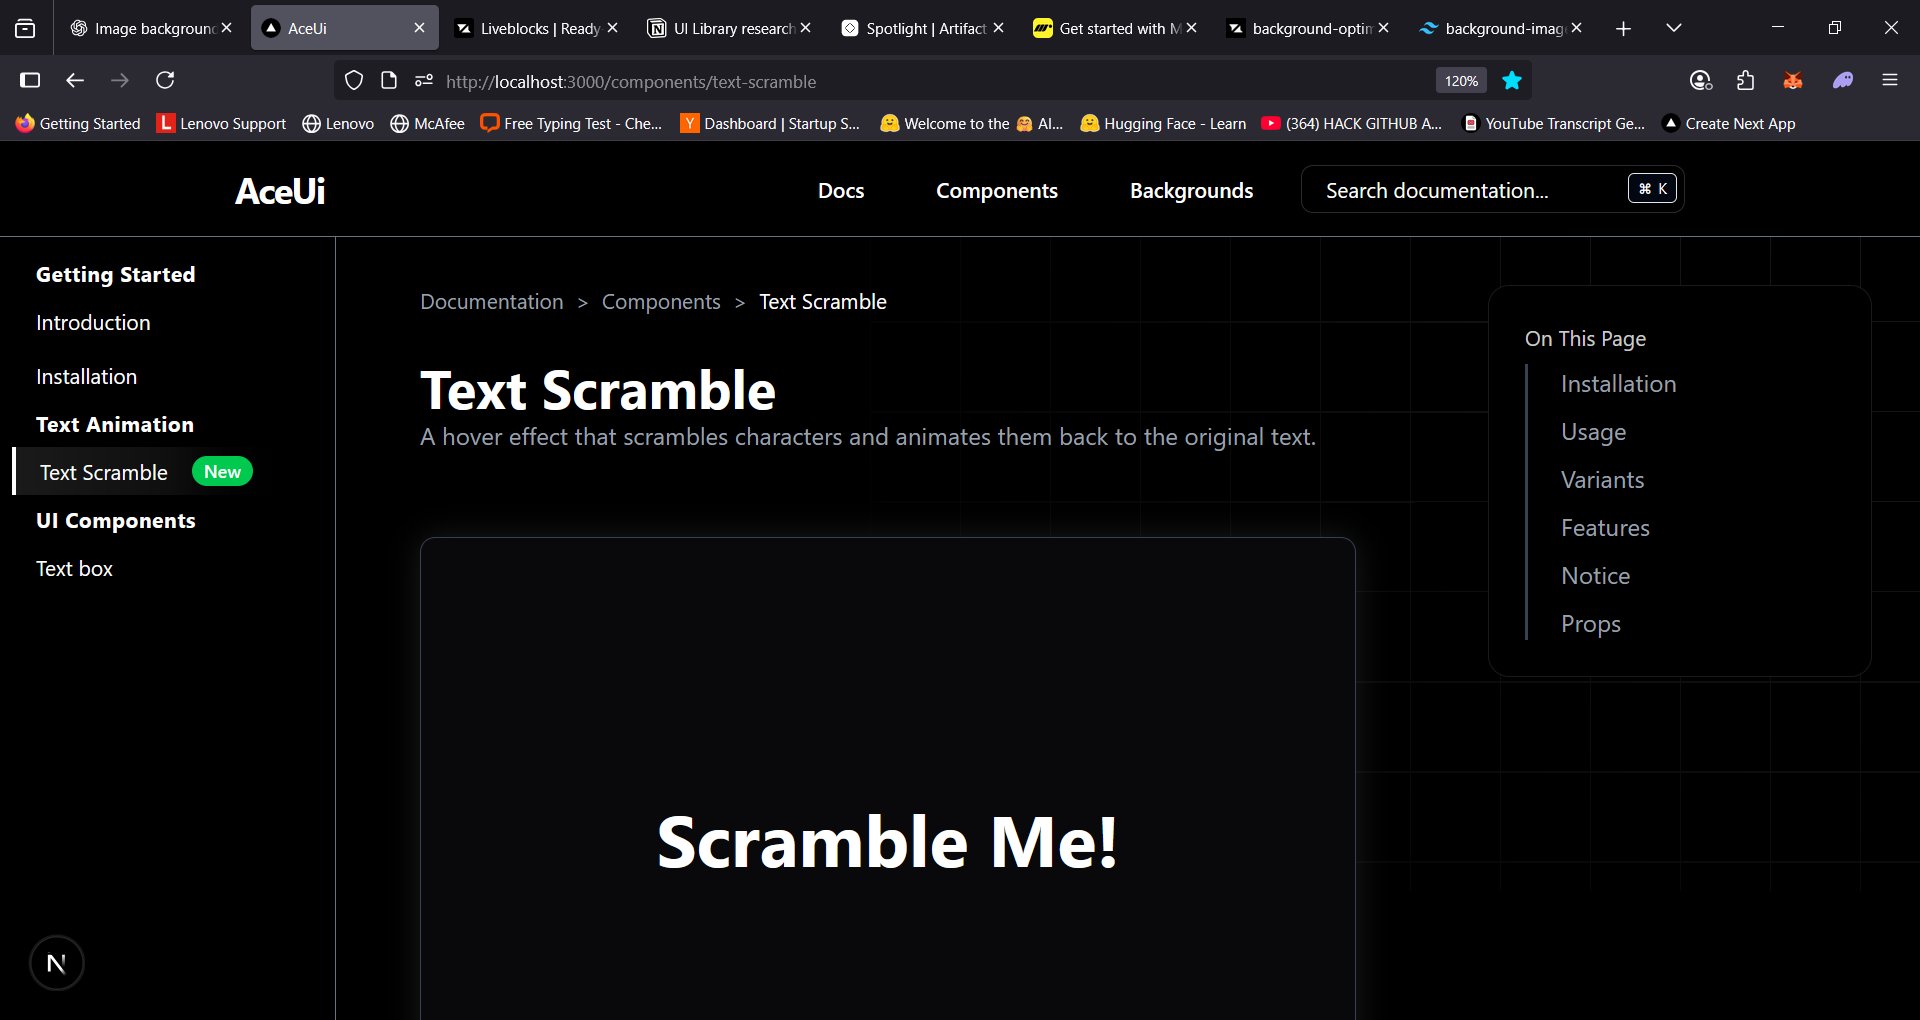
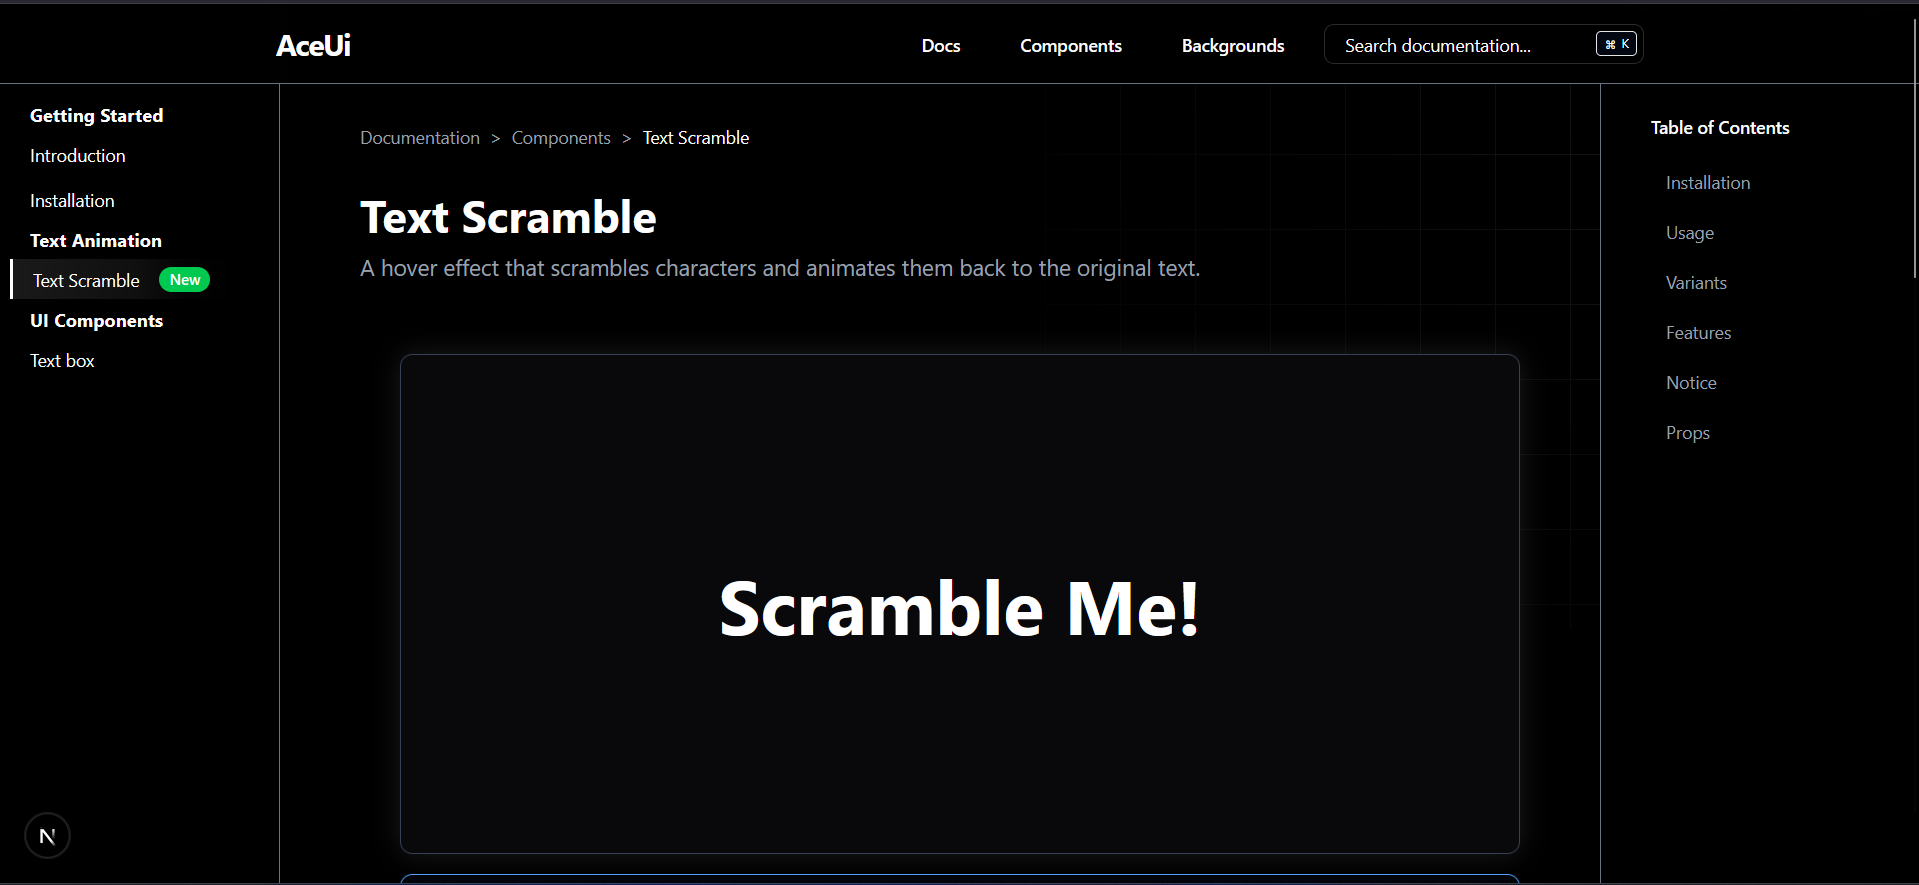
🥳

diff --git a/components/mobile-nav.tsx b/components/mobile-nav.tsx
@@ -1,65 +1,104 @@
-"use client"
+"use client";
 import React, { useState } from 'react';
-import { LogOut, CircleUser, Bell, Home, UsersRound, SquarePen, Menu, X } from 'lucide-react';
+import {  Menu } from 'lucide-react';
 import Link from 'next/link';
-import { Button } from './ui/button';
+import { sidebar } from "@/lib/items"
+import {
+    Sheet,
+    SheetContent,
+    SheetDescription,
+    SheetHeader,
+    SheetTitle,
+    SheetTrigger,
+} from "@/components/ui/sheet";
+import {
+    Sidebar,
+    SidebarContent,
+    SidebarGroup,
+    SidebarGroupContent,
+    SidebarGroupLabel,
+    SidebarMenu,
+    SidebarMenuButton,
+    SidebarMenuItem,
+} from "@/components/ui/sidebar"
+import { usePathname } from "next/navigation"
+
 function MobileNavbar() {
-    
+    const path = usePathname()
+    // console.log("Here is  the path : ", path)
     const [isOpen, setIsOpen] = useState(false);
 
     return (
-        <div className='md:hidden fixed top-0 left-0 right-0 z-50 bg-black border-b'>
-            <div className='flex justify-between items-center p-4'>
-                <div className='flex items-center'>
-                    <Link href={"/"} className='text-xl lg:text-2xl font-mono tracking-tighter text-primary font-bold'>
-                        HiveMind
-                    </Link>
-                </div>
-                <button onClick={() => setIsOpen(!isOpen)} className="p-2 hover:bg-gray-100 rounded-full">
-                    <Menu className='w-6 h-6' />
-                </button>
-            </div>
-            {isOpen && (
-                <div className='fixed inset-0 bg-white z-50'>
-                    <div className='flex flex-col h-full'>
-                        <div className='flex justify-between items-center p-4 border-b'>
-                            <div className='flex items-center'>
-                                <Link href={"/"} className='text-xl lg:text-2xl font-mono tracking-tighter text-primary font-bold'>
-                                    HiveMind
-                                </Link>
-                            </div>
-                            <button onClick={() => setIsOpen(false)} className="p-2 hover:bg-gray-100 rounded-full">
-                                <X className='w-6 h-6' />
-                            </button>
-                        </div>
-
-                        <div className='flex-1 overflow-y-auto p-4'>
-                            <nav className='flex flex-col space-y-2'>
-                                <Link href="/" onClick={() => setIsOpen(false)}>
-                                    <Button variant="ghost" className='w-full justify-start gap-2'>
-                                        <Home size={20} /> Home
-                                    </Button>
-                                </Link>
-                                <Link href="/spaces" onClick={() => setIsOpen(false)}>
-                                    <Button variant="ghost" className='w-full justify-start gap-2'>
-                                        <UsersRound size={20} /> Spaces
-                                    </Button>
-                                </Link>
-                                <Link href="/new-story" onClick={() => setIsOpen(false)}>
-                                    <Button variant="ghost" className='w-full justify-start gap-2'>
-                                        <SquarePen size={20} /> Write
-                                    </Button>
-                                </Link>
-
-                               
-                            </nav>
-                        </div>
-
-                       
+        <Sheet open={isOpen} onOpenChange={setIsOpen}>
+            <div className='md:hidden fixed top-0 left-0 right-0 z-50 bg-black/80 backdrop-blur-md border-b border-gray-500 m-0 text-white'>
+                <div className='flex justify-between items-center p-4'>
+                    <div className='flex items-center'>
+                        <Link href="/" className='text-xl lg:text-2xl text-white font-mono tracking-tighter font-bold'>
+                            AceUi
+                        </Link>
                     </div>
+                    <SheetTrigger asChild>
+                        <button className="p-2  rounded-full">
+                            <Menu className='w-6 h-6' />
+                        </button>
+                    </SheetTrigger>
                 </div>
-            )}
-        </div>
+            </div>
+
+            <SheetContent side="left" className="w-64 bg-black text-white border-r border-gray-500">
+                <SheetHeader>
+                    <SheetTitle > <Link href="/" className='text-xl lg:text-2xl text-white font-mono tracking-tighter font-bold'>
+                        AceUi
+                    </Link></SheetTitle>
+
+                </SheetHeader>
+
+                <SidebarGroup>
+                    {sidebar.map((i, index) => (
+                        <div key={index}>
+
+                            <SidebarGroupLabel className="text-sm tracking-wide font-dmsans text-white font-bold pl-4 pr-2">
+                                {i.title}
+                            </SidebarGroupLabel>
+
+                            <SidebarGroupContent>
+                                <SidebarMenu className="flex flex-col ">
+                                    {i.items.map((item) => (
+                                        <SidebarMenuItem key={item.title}>
+                                            <SidebarMenuButton asChild className="w-full">
+                                                <Link
+                                                    href={item.href}
+                                                    onClick={() => setIsOpen(false)}
+                                                    className={`*:block w-full text-sm font-dmsans text-white font-medium px-4 text-left 
+    hover:bg-transparent hover:shadow-none hover:text-white 
+    transition-colors duration-300 
+    focus:outline-none focus:ring-0 focus:bg-transparent 
+    active:bg-transparent active:text-white
+    visited:text-white
+    ${path === item.href
+                                                            ? "rounded-none bg-gradient-to-r from-[#1a1a1a] via-[#0f0f0f] to-black border-l-3 border-white shadow-lg"
+                                                            : ""}`}
+                                                >
+                                                    {item.title}
+
+                                                    {item.label ? (
+                                                        <span className="ml-2 inline-block rounded-full bg-green-500 px-2 py-0.5 text-xs font-semibold text-white">
+                                                            New
+                                                        </span>
+                                                    ) : ""}
+                                                </Link>
+
+                                            </SidebarMenuButton>
+                                        </SidebarMenuItem>
+                                    ))}
+                                </SidebarMenu>
+                            </SidebarGroupContent>
+                        </div>
+                    ))}
+                </SidebarGroup>
+
+            </SheetContent>
+        </Sheet>
     );
 }
 

diff --git a/app/(docs)/components/[[...slug]]/page.tsx b/app/(docs)/components/[[...slug]]/page.tsx
@@ -36,7 +36,7 @@ export default async function ComponentDocPage(props: DocPageProps) {
             <div className="mt-3 mb-6 sm:mb-8">
               <Breadcrumbs componentName={doc.title} />
             </div>
-            <h1 className="text-3xl sm:text-4xl font-bold">{doc.title}</h1>
+            <h1 className="text-2xl sm:text-3xl font-bold">{doc.title}</h1>
             <p className="text-gray-400 mt-2 text-base sm:text-lg">{doc.description}</p>
             <div className="prose prose-invert mt-6 mb-16 max-w-none">
               <Mdx code={doc.body.code} />
@@ -46,7 +46,7 @@ export default async function ComponentDocPage(props: DocPageProps) {
 
         {toc.length !== 0 && (
           <div className="w-64 flex-shrink-0 hidden xl:block relative">
-            <div className="fixed top-4 w-64 h-[calc(100vh-2rem)] border-l border-border text-sm bg-black mt-8">
+            <div className="fixed top-4 w-64 h-[calc(100vh-2rem)] border-l border-border border-gray-500  text-sm bg-black mt-8">
               <div className="h-full overflow-y-auto p-4">
                 <TableOfContents toc={toc} />
               </div>

diff --git a/components/main-nav.tsx b/components/main-nav.tsx
@@ -2,6 +2,9 @@ import React from 'react'
 import MobileNavbar from './mobile-nav'
 import DesktopNavbar from './desktop-nav'
 import Link from 'next/link'
+import {
+    SidebarProvider
+} from './ui/sidebar'
 async function Navbar() {
     
     return (
@@ -9,12 +12,14 @@ async function Navbar() {
             <div className='flex justify-around h-16 items-center '>
 
                 <div className='flex items-center'>
-                    <Link href={"/"} className=' text-xl lg:text-2xl  text-white font-mono tracking-tighter  font-bold '>
+                    <Link href={"/"} className=' text-xl lg:text-2xl  text-white font-mono tracking-tighter  font-bold  hidden sm:block'>
                         AceUi</Link>
                 </div>
                 <div className='flex items-center'>
                     <DesktopNavbar />
-                    <MobileNavbar />
+                    <SidebarProvider>
+                        <MobileNavbar />
+                    </SidebarProvider>
                 </div>
             </div>
 

diff --git a/components/side-bar.tsx b/components/side-bar.tsx
@@ -15,7 +15,7 @@ import { usePathname } from "next/navigation"
 import Link from "next/link"
 export function AppSidebar() {
     const path = usePathname()
-console.log("Here is  the path : ", path )
+// console.log("Here is  the path : ", path )
     return (
         <Sidebar className="h-screen w-56 pt-16 flex flex-col bg-black border-gray-500 ">
             <SidebarContent className="bg-black text-white">

diff --git a/app/(docs)/introduction/page.tsx b/app/(docs)/introduction/page.tsx
@@ -10,7 +10,7 @@ function Page() {
   return (
     <div className="min-h-screen w-full  text-white">
       <div className="flex justify-center w-full px-4">
-        <div className="max-w-2xl w-full py-10">
+        <div className="max-w-5xl w-full py-10">
           <h1 className="text-3xl font-bold mb-6">Introduction</h1>
           <div className="space-y-4 text-gray-300 leading-relaxed">
             <p>
